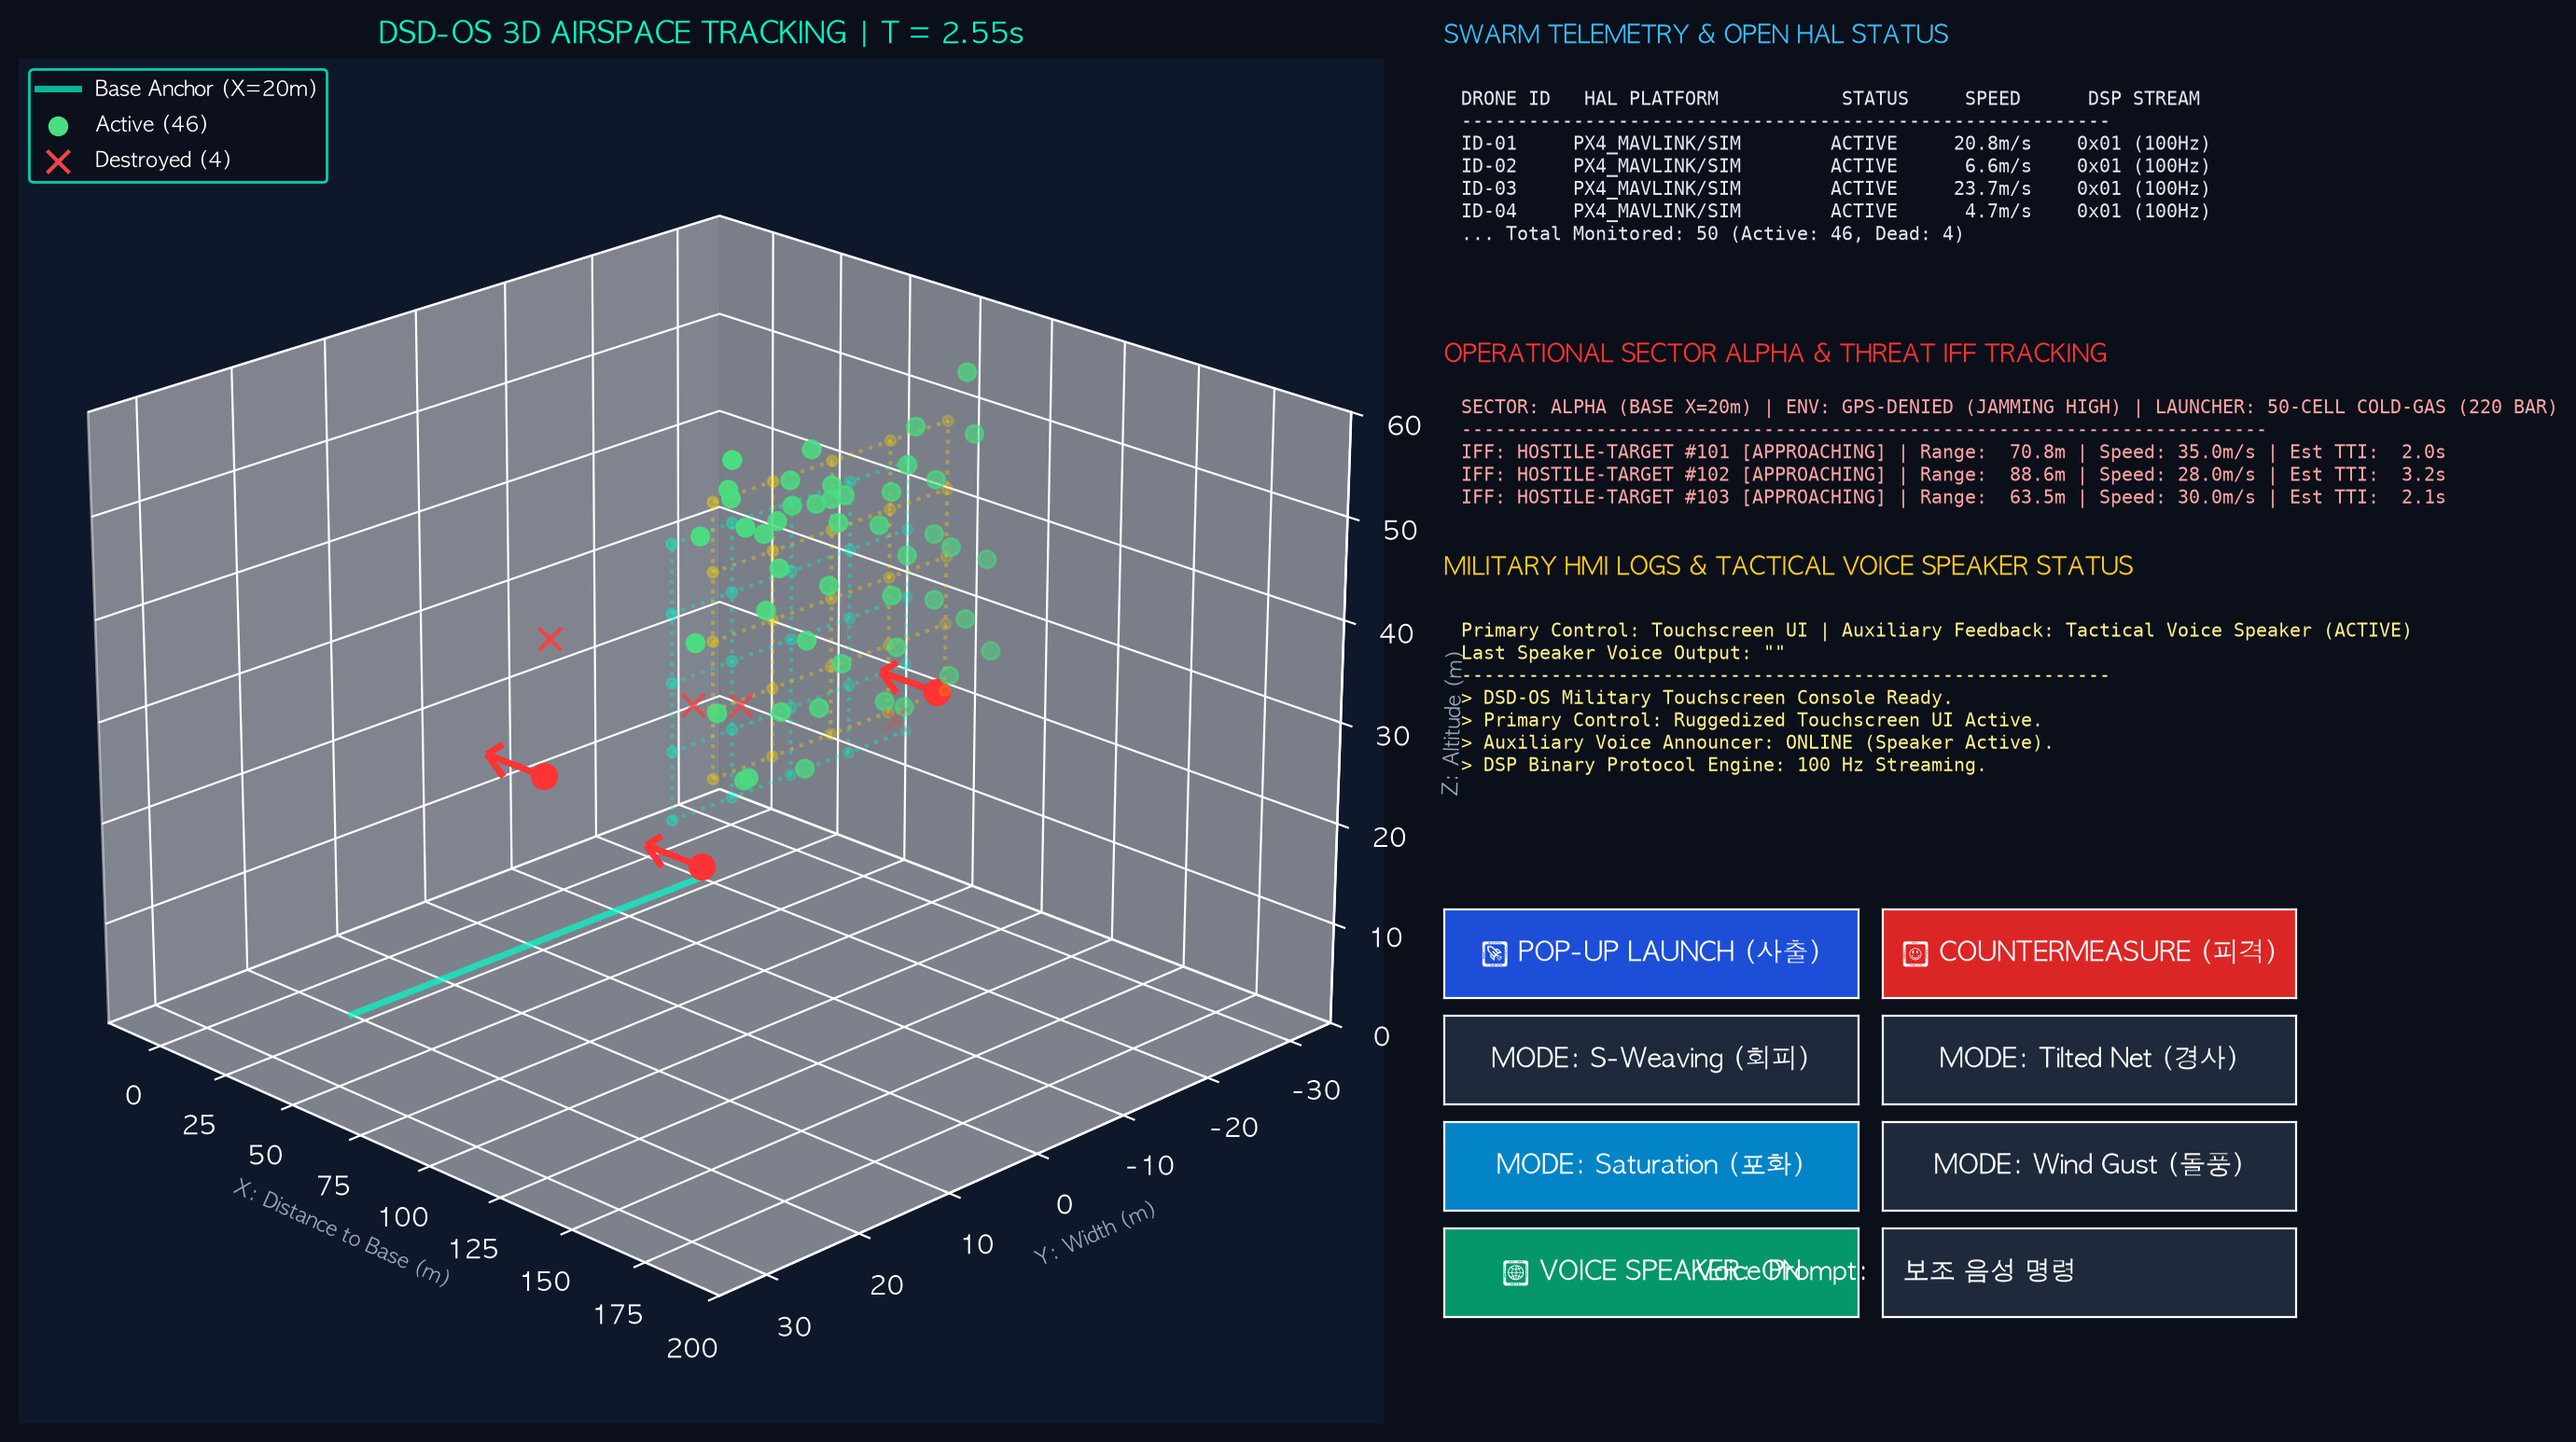
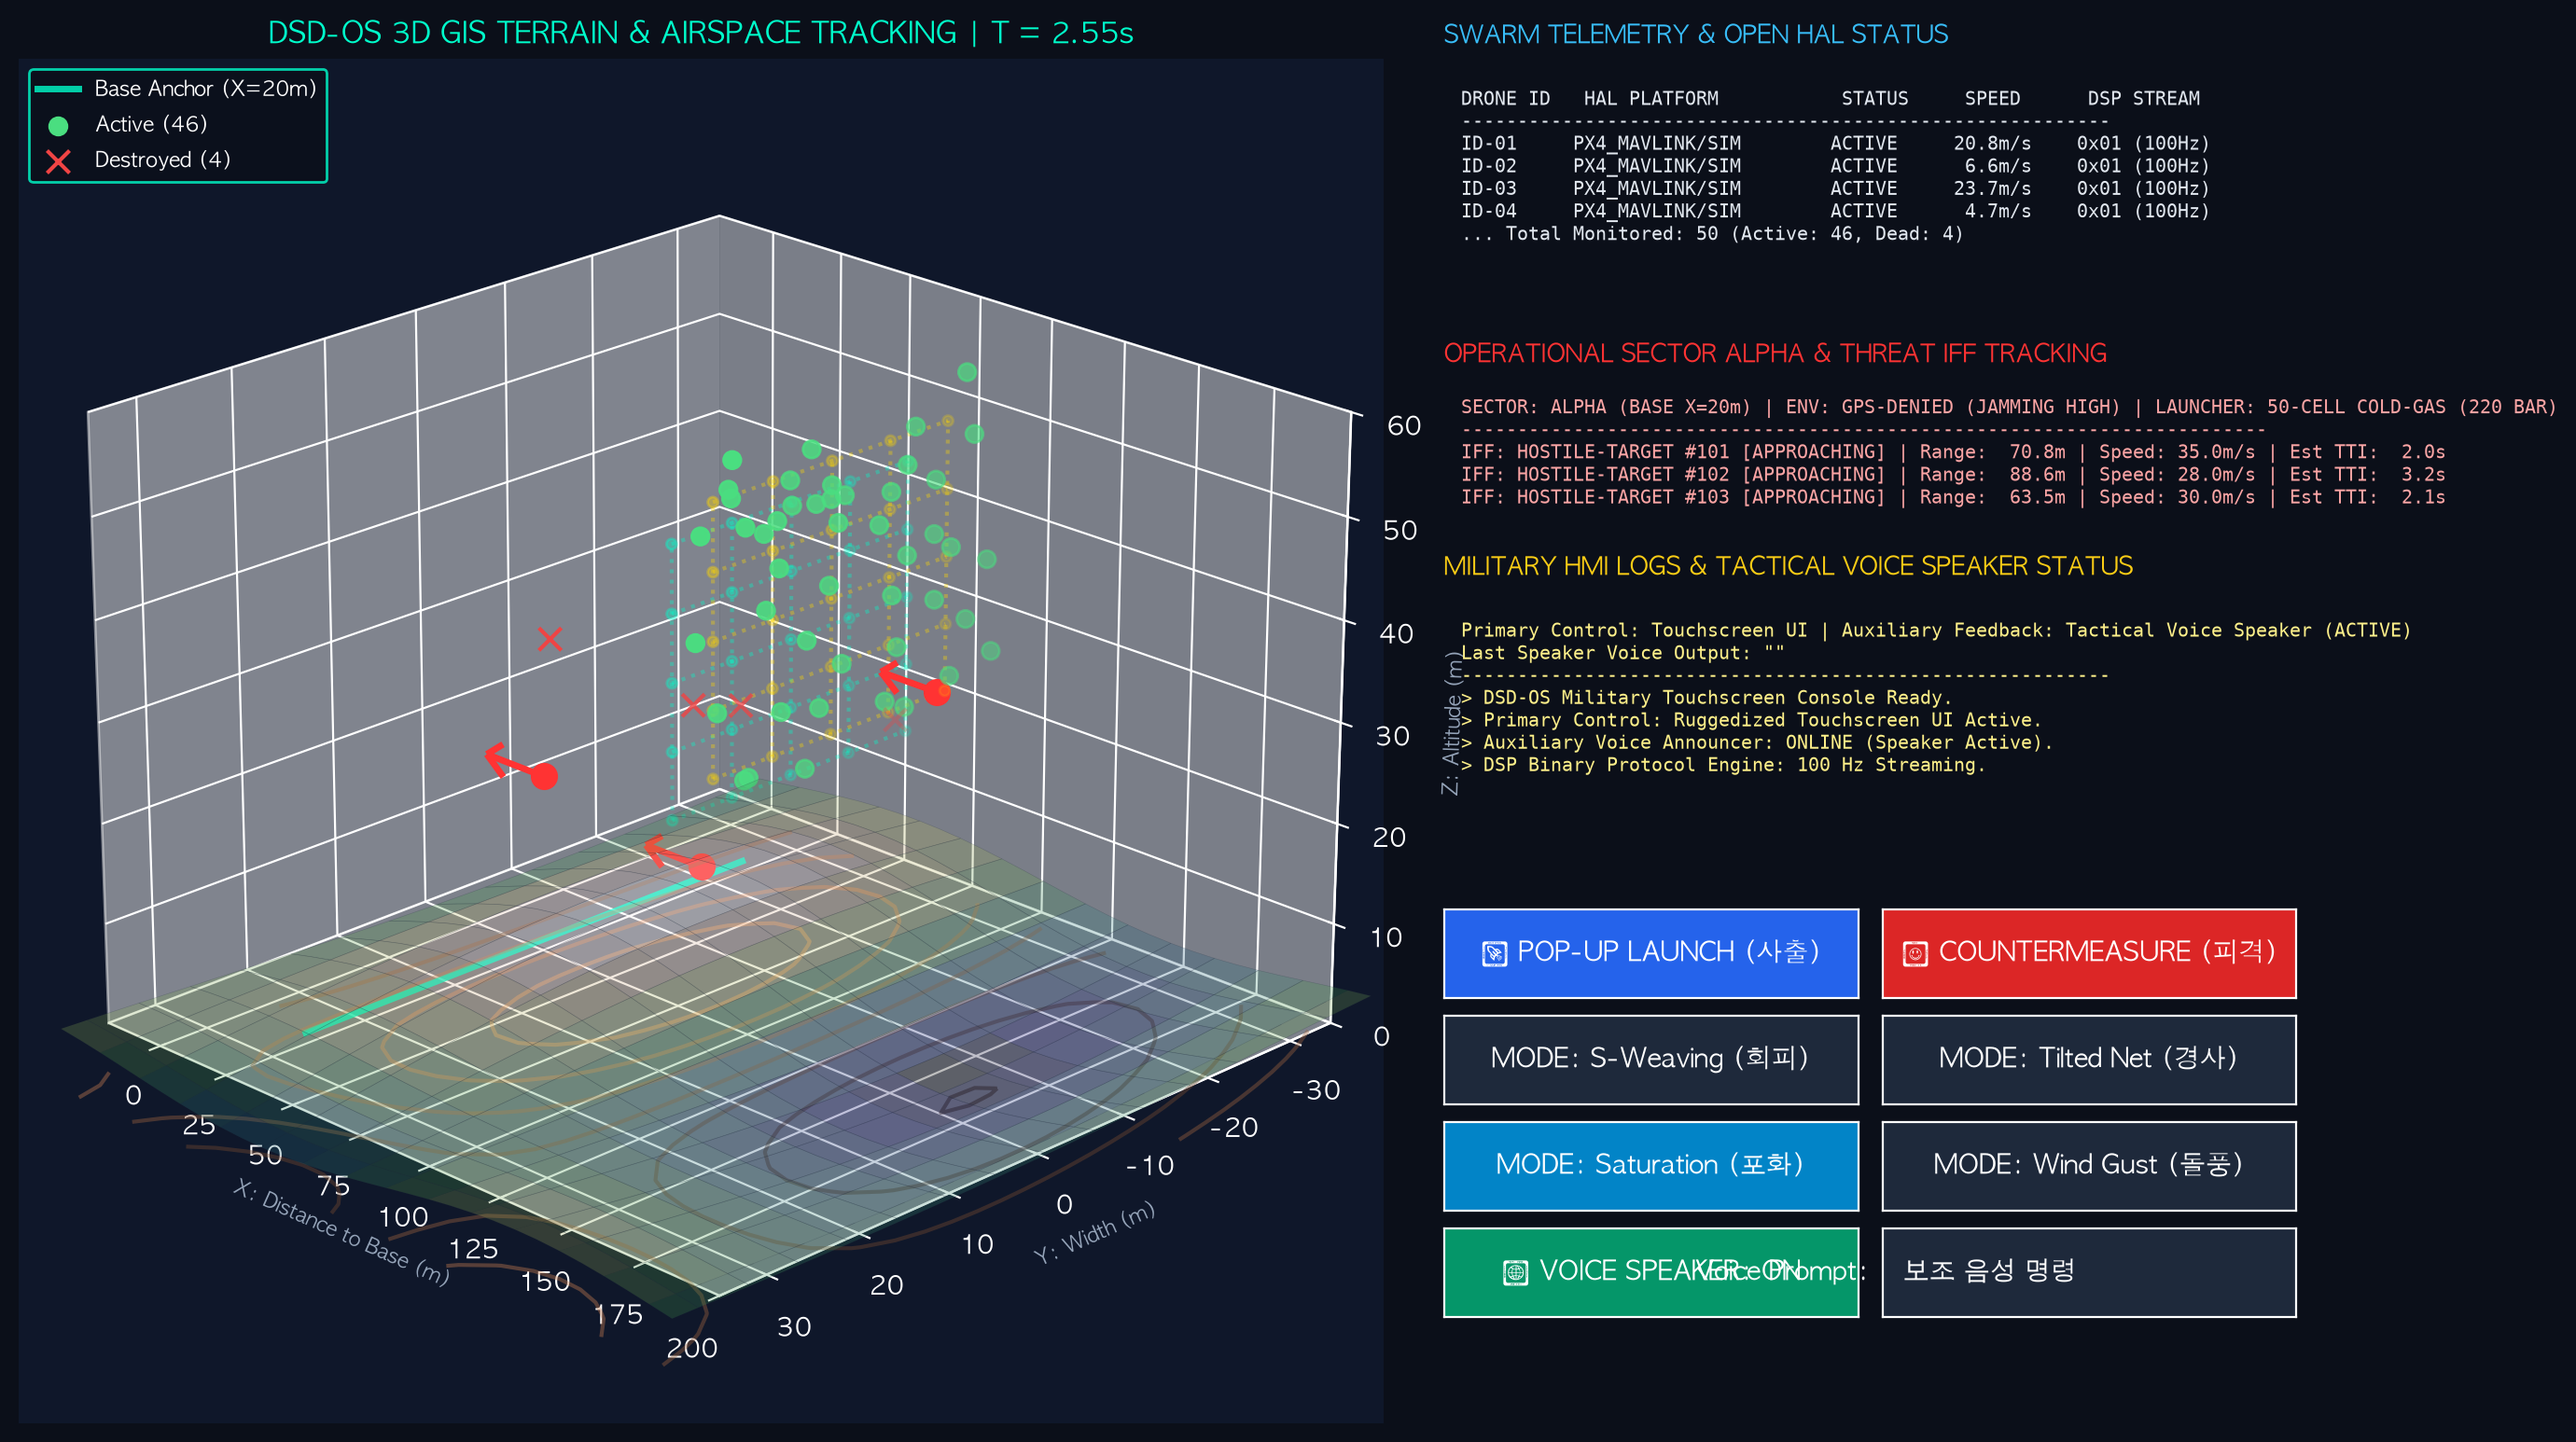
feat/c2: Add 3D GIS Topographic Terrain Elevation Surface Mesh and Radar Engagement Coverage Dome to C2 Console and 3D Visualizer

Changed region(s): [[0.0311, 0.5589, 0.5295, 0.9314], [0.0934, 0.0, 0.4361, 0.031]]

diff --git a/visualizer.html b/visualizer.html
@@ -138,9 +138,28 @@
         dirLight.position.set(100, 150, 100);
         scene.add(dirLight);
 
-        const gridHelper = new THREE.GridHelper(300, 30, 0x00ffcc, 0x1e293b);
-        gridHelper.position.set(30, 0, 0);
-        scene.add(gridHelper);
+        // 3D GIS Topographic Terrain Mesh with Elevation Displacement
+        const terrainGeom = new THREE.PlaneGeometry(300, 200, 50, 40);
+        terrainGeom.rotateX(-Math.PI / 2);
+        const posAttr = terrainGeom.attributes.position;
+        for (let i = 0; i < posAttr.count; i++) {
+            let x = posAttr.getX(i);
+            let z = posAttr.getZ(i);
+            let height = Math.sin(x / 25.0) * Math.cos(z / 18.0) * 6.5 + Math.cos((x + z) / 20.0) * 3.0;
+            posAttr.setY(i, height - 2.0);
+        }
+        terrainGeom.computeVertexNormals();
+        const terrainMat = new THREE.MeshStandardMaterial({ color: 0x1e293b, wireframe: true, transparent: true, opacity: 0.35 });
+        const terrainMesh = new THREE.Mesh(terrainGeom, terrainMat);
+        terrainMesh.position.set(30, -0.5, 0);
+        scene.add(terrainMesh);
+
+        // 3D Radar Engagement Coverage Dome Wireframe
+        const domeGeom = new THREE.SphereGeometry(110, 24, 12, 0, Math.PI * 2, 0, Math.PI / 2);
+        const domeMat = new THREE.MeshBasicMaterial({ color: 0x00ffcc, wireframe: true, transparent: true, opacity: 0.08 });
+        const domeMesh = new THREE.Mesh(domeGeom, domeMat);
+        domeMesh.position.set(20, 0, 0);
+        scene.add(domeMesh);
 
         // Canister Launch Pads
         const launcherGroup = new THREE.Group();

diff --git a/src/visualizer/c2_console.py b/src/visualizer/c2_console.py
@@ -167,16 +167,25 @@ class C2ManagementConsolePoC:
                        depth_layers: int = 2,
                        local_ai_latency_ms: float = 2.82):
         """Renders complete DSD-OS Touchscreen C2 Management Console."""
-        # 1. 3D Airspace Panel
+        # 1. 3D Airspace Panel with GIS Topographic Terrain & Radar Dome
         self.ax_3d.cla()
-        self.ax_3d.set_title(f"DSD-OS 3D AIRSPACE TRACKING | T = {sim_time:.2f}s", color='#00ffcc', fontsize=11, fontweight='bold')
+        self.ax_3d.set_title(f"DSD-OS 3D GIS TERRAIN & AIRSPACE TRACKING | T = {sim_time:.2f}s", color='#00ffcc', fontsize=11, fontweight='bold')
         self.ax_3d.set_xlabel('X: Distance to Base (m)', color='#94a3b8', fontsize=8)
         self.ax_3d.set_ylabel('Y: Width (m)', color='#94a3b8', fontsize=8)
         self.ax_3d.set_zlabel('Z: Altitude (m)', color='#94a3b8', fontsize=8)
-        self.ax_3d.grid(True, linestyle='--', alpha=0.25)
+        self.ax_3d.grid(True, linestyle='--', alpha=0.20)
         self.ax_3d.view_init(elev=22, azim=135)
 
-        self.ax_3d.plot([20, 20], [-20, 20], [0, 0], color='#00ffcc', linestyle='-', linewidth=2.5, alpha=0.7, label='Base Anchor (X=20m)')
+        # Render 3D GIS Topographic Terrain Elevation Mesh
+        gx = np.linspace(-20, 200, 30)
+        gy = np.linspace(-40, 40, 30)
+        GX, GY = np.meshgrid(gx, gy)
+        GZ = 3.5 * np.sin(GX / 35.0) * np.cos(GY / 25.0) + 1.5 * np.cos((GX + GY) / 30.0)
+        self.ax_3d.plot_surface(GX, GY, GZ, cmap='gist_earth', alpha=0.25, rstride=2, cstride=2, linewidth=0.2, edgecolor='#1e293b')
+        self.ax_3d.contour(GX, GY, GZ, zdir='z', offset=-5, cmap='copper', alpha=0.4)
+
+        # Defense Base Anchor Line & Radar Coverage Hemisphere Wireframe
+        self.ax_3d.plot([20, 20], [-25, 25], [0, 0], color='#00ffcc', linestyle='-', linewidth=2.5, alpha=0.8, label='Base Anchor (X=20m)')
 
         if target_nodes is not None and len(target_nodes) > 0:
             nodes_arr = np.array(target_nodes)
